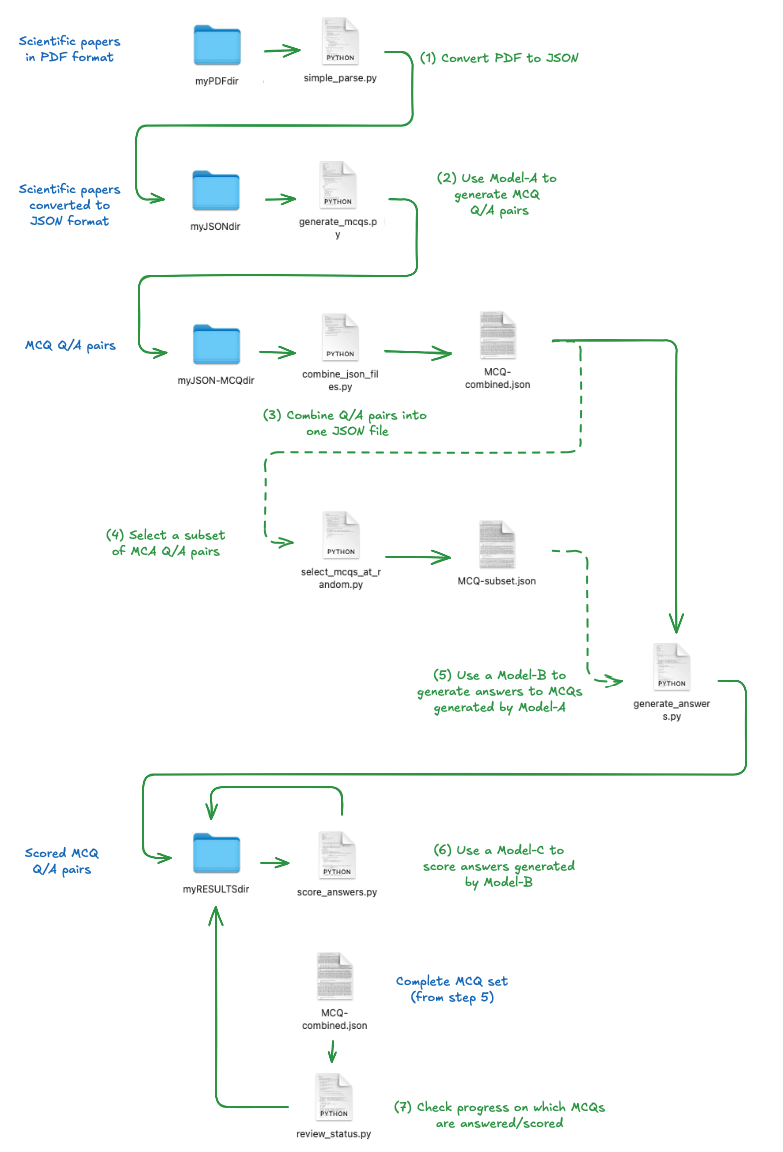
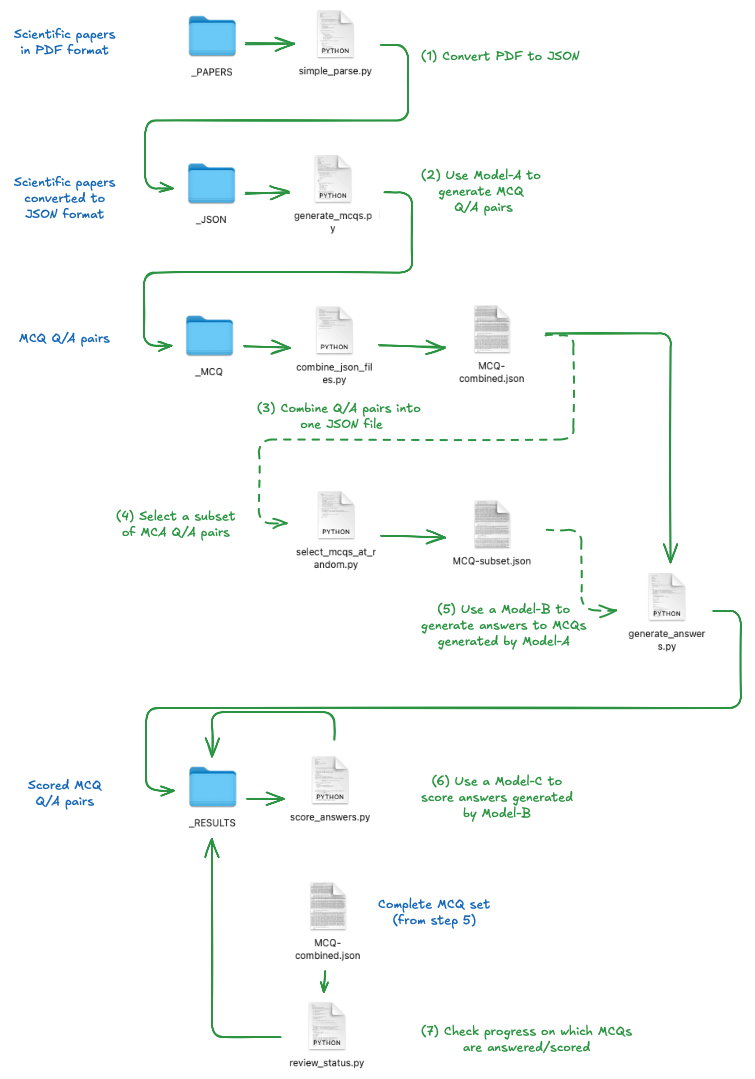
rename folders for clarity

diff --git a/README.md b/README.md
@@ -59,21 +59,21 @@ Ensure your working directory has subdirectories for storing input and output fi
 of files and folders don't matter, but these are the names used in the steps below (so
 if you are just starting out, use these and you can copy/paste the steps).
 
-- `myPDFdir/` → Stores **original PDF papers**.
-- `myJSONdir/` → Stores **parsed text in JSON format**.
-- `myJSON-MCQdir/` → Stores **generated MCQs in JSON format**.
-- `myRESULTSdir/` → Stores **AI-generated answers and scores**.
+- `_PAPERS/` → Stores **original PDF papers**.
+- `_JSON/` → Stores **parsed text in JSON format**.
+- `_MCQ/` → Stores **generated MCQs in JSON format**.
+- `_RESULTS/` → Stores **AI-generated answers and scores**.
 
 If you're just starting (and don't already have these or equivalent directories),
 , create these directories manually. If yours are named differently, substitute your
 directory names as you follow the instruction sequence below::
 ```bash
-mkdir myPDFdir myJSONdir myJSON-MCQdir myRESULTSdir
+mkdir _PAPERS _JSON _MCQ _RESULTS
 ```
 (**Note:** Some of the scripts below create their output directories automatically if they don’t
 already exist, but we will create them just to be sure..)
 
-At this stage you'll want to place some papers in PDF form into **myPDFdir**.
+At this stage you'll want to place some papers in PDF form into **_PAPERS**.
 
 
 #### Set Up and Activate Your Conda Environment
@@ -97,7 +97,7 @@ then create and activate that env.)
 ### 1. Convert PDFs to JSON
 Extract text from PDFs using a simple parser:
 ```bash
-python simple_parse.py -i myPDFdir -o myJSONdir
+python simple_parse.py -i _PAPERS -o _JSON
 ```
 Alternatively, you can use **AdaParse** (higher-quality parser, still in testing). 
 [More details](https://github.com/7shoe/AdaParse/tree/main)
@@ -142,8 +142,8 @@ defaults to *openai:gpt-4o*.
 
 
    ```bash
-   python generate_mcqs.py -i myJSONdir \
-        -o myJSON-MCQdir \
+   python generate_mcqs.py -i _JSON \
+        -o _MCQ \
         -m 'alcf:mistralai/Mistral-7B-Instruct-v0.3'
    ```
 
@@ -151,7 +151,7 @@ defaults to *openai:gpt-4o*.
 
 ### 3. Combine multiple MCQ JSON files into a single file
    ```bash
-   python combine_json_files.py -i myJSON-MCQdir -o MCQ-combined.json
+   python combine_json_files.py -i _MCQ -o MCQ-combined.json
    ```
 
 ---
@@ -174,11 +174,11 @@ whose endpoint is running at <locn> = `alcf`..
 
 ```bash
 python generate_answers.py -i MCQ-subset.json \
-       -o myRESULTSdir \
+       -o _RESULTS \
        -m 'alcf:meta-llama/Meta-Llama-3-70B-Instruct'
 ```
 - **Input:** `MCQ-subset.json` (or `MCQ-combined.json` if no subset was chosen).
-- **Output:** `myRESULTSdir/answers_<model>.json` (AI-generated answers).
+- **Output:** `RESULTS/answers_<model>.json` (AI-generated answers).
 
 ---
 
@@ -190,12 +190,12 @@ to evaluate the answers we created in the previous step with
 `alcf:meta-llama/Meta-Llama-3-70B-Instruct`
 
 ```bash
-python score_answers.py -o myRESULTSdir \
+python score_answers.py -o _RESULTS \
        -a 'alcf:meta-llama/Meta-Llama-3-70B-Instruct' \
        -b 'alcf:mistralai/Mistral-7B-Instruct-v0.3'
 ```
-- **Input:** `myRESULTSdir/answers_<model-A>.json`
-- **Output:** `myRESULTSdir/scores_<locn-A>:<model-A>_<locn-B>:<model-B>.json`
+- **Input:** `_RESULTS/answers_<model-A>.json`
+- **Output:** `_RESULTS/scores_<locn-A>:<model-A>_<locn-B>:<model-B>.json`
 - **Note:** Any `/` in model names is replaced with `+` in filenames.
 
 ---
@@ -203,7 +203,7 @@ python score_answers.py -o myRESULTSdir \
 ### 7. Review MCQ Generation and Scoring Status
 To check progress and see which MCQs are answered/scored:
 ```bash
-python review_status.py -i MCQ-combined.json -o myRESULTSdir
+python review_status.py -i MCQ-combined.json -o _RESULTS
 ```
 - This script identifies missing or incomplete processing steps.
 
@@ -219,16 +219,16 @@ python review_status.py -i MCQ-combined.json -o myRESULTSdir
 are to use an OpenAI model like *gpt-4o*.
 
 Examples of running *generate_answers.py*:
-* `python generate_answers.py -o RESULTS -i MCQs.json -m openai:o1-mini.json`
-  * Uses the OpenAI model `o1-mini` to generate answers for MCQs in `MCQs.json` and stores results in the `RESULTS` directory, in a file named `answers_openai:o1-mini.json`
-* `python generate_answers.py -o RESULTS -i MCQs.json -m "pb:argonne-private/AuroraGPT-IT-v4-0125`
-  * Uses the Huggingface model `argonne-private/AuroraGPT-IT-v4-0125`, running on a Polaris compute node started via PBS, to generate answers for the same MCQs. Results are placed in `RESULTS/answers_pb:argonne-private+AuroraGPT-IT-v4-0125.json`
+* `python generate_answers.py -o _RESULTS -i MCQs.json -m openai:o1-mini.json`
+  * Uses the OpenAI model `o1-mini` to generate answers for MCQs in `MCQs.json` and stores results in the `_RESULTS` directory, in a file named `answers_openai:o1-mini.json`
+* `python generate_answers.py -o _RESULTS -i MCQs.json -m "pb:argonne-private/AuroraGPT-IT-v4-0125`
+  * Uses the Huggingface model `argonne-private/AuroraGPT-IT-v4-0125`, running on a Polaris compute node started via PBS, to generate answers for the same MCQs. Results are placed in `_RESULTS/answers_pb:argonne-private+AuroraGPT-IT-v4-0125.json`
  
 Examples of running `score_answers.py`:
-* `python score_answers.py -o RESULTS -i MCQs.json -a openai:o1-mini.json -b openai:gpt-4o`
-  * Uses the OpenAI model `gpt-4o` to score answers for MCQs in `MCQs.json` and stores results in `RESULTS` directory, in a file named `answers_openai:o1-mini.json`
-* `python score_answers.py -o RESULTS -a pb:argonne-private/AuroraGPT-IT-v4-0125 -b openai:gpt-4o`
-  * Uses the OpenAI model gpt-4o to score answers previously generated for model `pb:argonne-private/AuroraGPT-IT-v4-0125`, and assumed to be located in a file `RESULTS/answers_pb:argonne-private+AuroraGPT-IT-v4-0125.json`, as above. Places results in file `RESULTS/scores_pb:argonne-private+AuroraGPT-IT-v4-0125:openai:gpt-4o.json`.
+* `python score_answers.py -o _RESULTS -i MCQs.json -a openai:o1-mini.json -b openai:gpt-4o`
+  * Uses the OpenAI model `gpt-4o` to score answers for MCQs in `MCQs.json` and stores results in `_RESULTS` directory, in a file named `answers_openai:o1-mini.json`
+* `python score_answers.py -o _RESULTS -a pb:argonne-private/AuroraGPT-IT-v4-0125 -b openai:gpt-4o`
+  * Uses the OpenAI model gpt-4o to score answers previously generated for model `pb:argonne-private/AuroraGPT-IT-v4-0125`, and assumed to be located in a file `_RESULTS/answers_pb:argonne-private+AuroraGPT-IT-v4-0125.json`, as above. Places results in file `_RESULTS/scores_pb:argonne-private+AuroraGPT-IT-v4-0125:openai:gpt-4o.json`.
  
 
 ## Notes on different model execution locations
